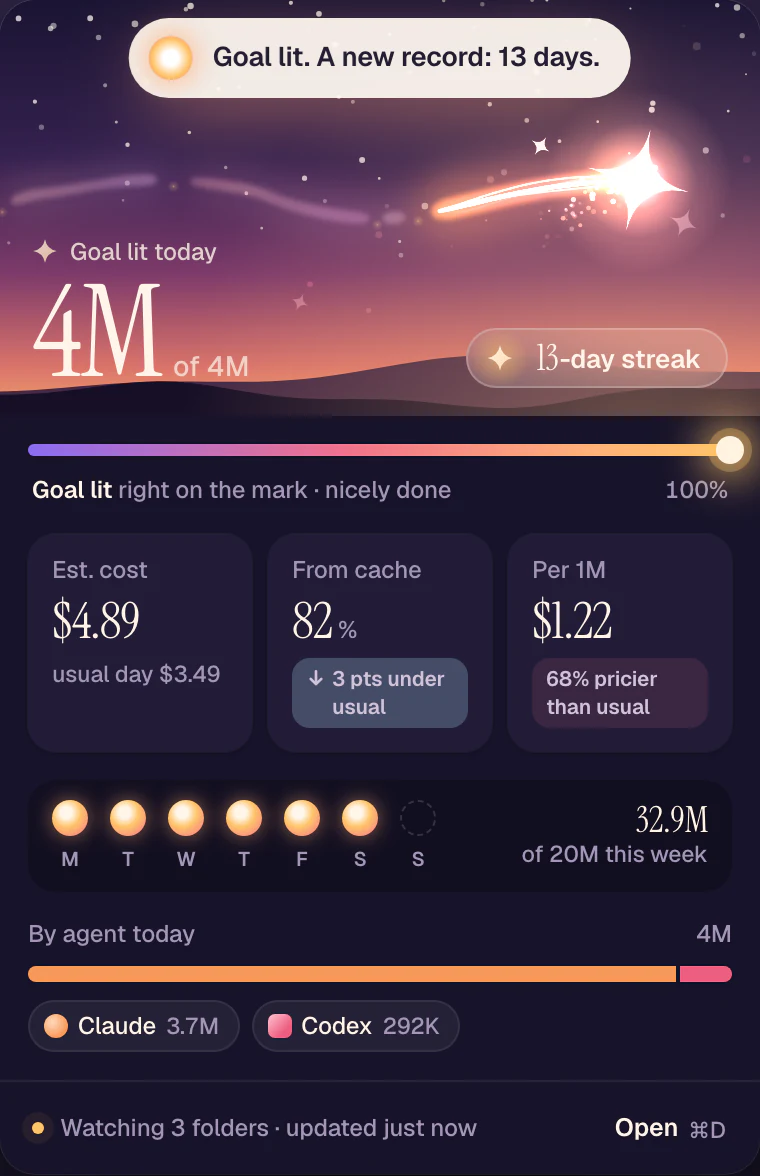
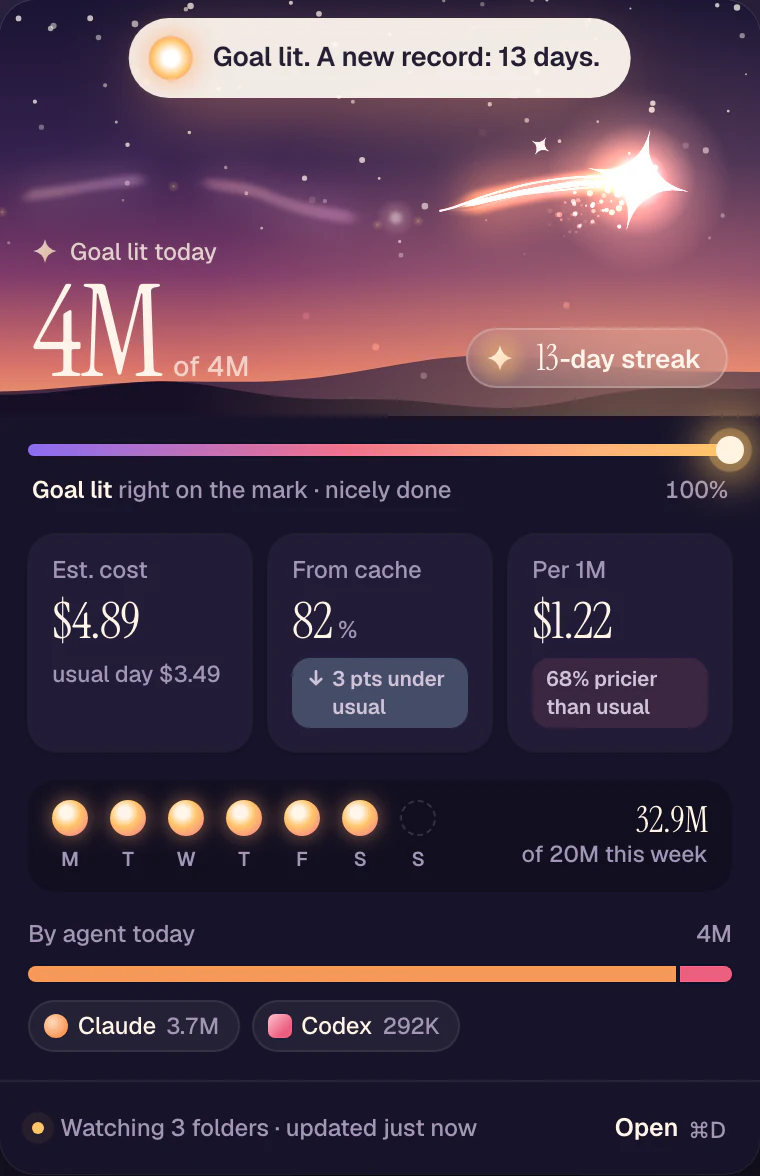
README hero: the goal igniting on a 126-day streak; recapture all media on the final Trail
- New hero loop (7.5 s, 1000x462): dark heavy-multi-tool dashboard Trail, today
  counts up to the goal, the comet fills its halo and ignites, shockwave and roll
  call along the ribbon, streak 125 -> 126. The file starts on the ignition flash so
  the wrap point hides in the burst; the sky-reset wipe plays mid-file.
- Launch film, feed cut, social preview and README screenshots recaptured on the
  final Trail (luminous light history, WebKit blur, P2 polish). Mock data only.
- README: Trail table and a note on the compressed long-range axis match the
  engine and its legend (gaps = days off, bright = goal days).

diff --git a/README.md b/README.md
@@ -1,7 +1,7 @@
 <p align="center">
   <picture>
     <source srcset="docs/media/hero.webp" type="image/webp">
-    <img src="docs/media/hero.gif" width="1000" alt="Tokenstreak's first-run reveal: a count of 185 million tokens climbs while a ribbon of light draws itself across a dusk sky and ignites at its head.">
+    <img src="docs/media/hero.gif" width="1000" alt="The Trail on a 126-day streak: today's count climbs to its 20M goal, the comet at the head of a long ribbon of light fills its halo and ignites, a shockwave rolls out and the streak ticks from 125 to 126 days.">
   </picture>
 </p>
 
@@ -93,9 +93,11 @@ The Trail is your streak, drawn as a streak of light. Every mark on it means som
 | **Width** | Tokens that day against your goal. A big day swells the ribbon. |
 | **Strands** | Your agent mix: apricot for Claude Code, rose for Codex, violet for Gemini, braided in proportion. |
 | **Core** | Efficiency. In the current run, the more of a day served from cache, the whiter its core burns. |
-| **Brightness** | Goal days glow. The current run is brightest; older history stays in the sky as a slimmer, calmer ribbon. |
-| **Gaps** | A day with no tokens is a clean break with a single ember. Rest days and spent freezes keep a thinner bridge of light. |
+| **Brightness** | Goal days glow. The current run burns brightest; older history stays in the sky as a slimmer, calmer ribbon. |
+| **Gaps** | Days off. A day with no tokens is a clean break with a single ember; rest days and spent freezes keep a thinner bridge of light. |
 | **The comet** | Today. Its halo ring fills as you approach the goal and ignites when you hit it. |
+
+Over long ranges the axis bends: the current run and the two weeks before it keep at least a third of the width, and older history is compressed. When days get too narrow to show every gap, the ribbon only breaks for empty stretches and the legend switches from *gaps = days off* to *bright = goal days*.
 
 The sky changes with your streak, from *Kindling* to *Ember*, *Glow* (7 days, milestone stars appear), *Comet* (30), *Aurora* (100, curtains of light above the horizon) and *Halo* (365). The horizon warms as today's progress grows.
 
